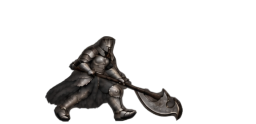
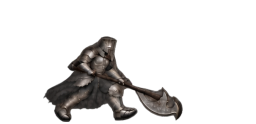
fix: remove extra outlines from Gundyr walking sprites

diff --git a/tests/test_walk_animation.py b/tests/test_walk_animation.py
@@ -103,7 +103,7 @@ class DrawnWalkTests(unittest.TestCase):
             self.assertGreater(height, idle_height * 0.75)
             self.assertLess(height, idle_height * 0.90)
 
-    def test_generated_metal_palette_matches_idle_without_bright_silver_pop(self):
+    def test_generated_metal_palette_matches_idle_and_attacks_without_bright_silver_pop(self):
         def palette(frames):
             colors = [frame.get_at((x, y)) for frame in frames
                       for y in range(frame.get_height()) for x in range(frame.get_width())
@@ -115,16 +115,47 @@ class DrawnWalkTests(unittest.TestCase):
             warmth = median(color.r - color.b for color in colors)
             return levels, warmth
 
-        idle = main.SpriteArt._strips("gundyr", ("idle",), 1.0)["idle"]
-        reference, reference_warmth = palette(idle)
+        existing = main.SpriteArt._strips("gundyr", ("idle", "sweep_a", "sweep_b"), 1.0)
+        references = [palette(frames) for frames in existing.values()]
         walk, walk_warmth = palette(self.frames)
-        # Allow different visible cloth/metal coverage and painted texture,
-        # but reject the bright cream/silver highlights of the old walk sheet.
-        for actual, expected, tolerance in zip(walk, reference, (12, 12, 25)):
-            self.assertLessEqual(abs(actual - expected), tolerance)
+        # Different existing poses expose different areas of metal and cloth.
+        # Match their observed value range, not just a single standing pose,
+        # without allowing the previous pale cream/silver metal to return.
+        for index, (actual, tolerance) in enumerate(zip(walk, (12, 12, 25))):
+            values = [levels[index] for levels, _ in references]
+            self.assertGreaterEqual(actual, min(values) - tolerance)
+            self.assertLessEqual(actual, max(values) + tolerance)
         # A few RGB levels allow natural painted reflections/cloth coverage,
         # but not the noticeably warm bronze tint of the previous drawings.
-        self.assertLessEqual(walk_warmth, reference_warmth + 5)
+        self.assertLessEqual(walk_warmth, max(warmth for _, warmth in references) + 5)
+
+    def test_walk_has_no_heavy_black_ring_around_lit_material(self):
+        def luminance(color):
+            return .2126 * color.r + .7152 * color.g + .0722 * color.b
+
+        lit_edges = ink_edges = 0
+        for frame in self.frames:
+            for y in range(3, frame.get_height() - 3):
+                for x in range(3, frame.get_width() - 3):
+                    color = frame.get_at((x, y))
+                    if color.a < 128:
+                        continue
+                    if all(frame.get_at((x + dx, y + dy)).a >= 128
+                           for dx, dy in ((-1, 0), (1, 0), (0, -1), (0, 1))):
+                        continue
+                    inside = [frame.get_at((x + dx, y + dy))
+                              for dx, dy in ((-2, 0), (2, 0), (0, -2), (0, 2))]
+                    brightest = max((luminance(pixel) for pixel in inside if pixel.a > 200),
+                                    default=0)
+                    if brightest < 70:
+                        continue  # Dark cloth/shadow is not an unwanted ink stroke.
+                    lit_edges += 1
+                    value = luminance(color)
+                    ink_edges += value < 36 and value < brightest * .5
+        # The outlined source had ~19% dark rings beside lit material; the
+        # repainted source has <1%. Leave room for small natural contact shadows.
+        self.assertGreater(lit_edges, 500)
+        self.assertLess(ink_edges / lit_edges, .06)
 
     def test_corrected_source_has_wide_vertical_gutters_between_rows(self):
         bounds = exporter.source_rects(self.source)

diff --git a/prepare_drawn_walk.py b/prepare_drawn_walk.py
@@ -17,7 +17,7 @@ import pygame
 
 
 ROOT = Path(__file__).parent
-SOURCE = ROOT / "assets" / "source_v6" / "gundyr_walk_consistent.png"
+SOURCE = ROOT / "assets" / "source_v6" / "gundyr_walk_painted.png"
 OUTPUT = ROOT / "assets" / "animations_v6" / "gundyr_walk"
 FRAME_COUNT = 16
 CELL_SIZE = (256, 124)
@@ -28,12 +28,12 @@ MIN_SPRITE_PIXELS = 500
 # Artist registration points, in the corrected source's coordinates.
 # These identify the pelvis, not the changing blade extent or head tilt.
 PELVIS_X = (
-    212, 629, 1044, 1458,
-    214, 625, 1056, 1463,
-    218, 627, 1046, 1463,
-    218, 637, 1053, 1471,
+    213, 628, 1047, 1463,
+    214, 622, 1056, 1467,
+    216, 627, 1048, 1469,
+    218, 635, 1055, 1474,
 )
-SOURCE_SIZE = (1671, 941)
+SOURCE_SIZE = (1670, 942)
 # AI sheets can draw later rows at a smaller pixel scale. Correct each row as
 # a WHOLE, identically on both axes and on all four poses in it; do not stretch
 # a limb or scale individual poses to equal heights. Their drawn bob remains.
@@ -42,7 +42,7 @@ SOURCE_SIZE = (1671, 941)
 # the idle while the inclined torso and flexed knees keep their shorter pose.
 # This remains a single scale per ROW, not a per-frame height equalizer.
 WALK_POSE_HEIGHT = 86
-ROW_SCALES = tuple(WALK_POSE_HEIGHT / height for height in (172.5, 175, 176, 168.5))
+ROW_SCALES = tuple(WALK_POSE_HEIGHT / height for height in (179, 180, 180, 173))
 
 
 def source_drawings(sheet: pygame.Surface):

diff --git a/assets/source_v6/gundyr_walk_painted.md b/assets/source_v6/gundyr_walk_painted.md
@@ -1,0 +1,41 @@
+# Gundyr — acabamento da caminhada sem delineado extra
+
+Fonte selecionada: `gundyr_walk_painted.png` (**1670×942**, RGBA), gerada com **image_gen integrada**; saída `exec-59df677d-d6c4-4fd2-9ec1-a843eb469aba.png`. Não foi usado CLI nem filtro de contorno/cor em execução. A versão anterior `gundyr_walk_consistent.png` e os sprites de idle/ataque foram preservados.
+
+O alvo foi somente a caminhada: reduzir o traço preto uniforme nas bordas e entre placas, substituindo-o por bordas pintadas, textura e sombras de material mais próximas do idle e dos ataques. Referências: `../source_v5/boss_idle.png` e `../source_v5/boss_sweep_a.png`. Um segundo passe conteve o brilho que a primeira edição introduziu, usando a versão anterior apenas como referência de valores de cor, sem restaurar seu contorno.
+
+Mantidos os 16 desenhos completos, a sequência das passadas, botas suspensas, inclinação/contrapeso do torso, direção da alabarda e cadência-base de 1,6 s. O exportador `../../prepare_drawn_walk.py` continua extraindo cada silhueta completa e aplicando apenas escala uniforme por linha e registro de pelve/chão: não recorta/move membros nem gera quadros por interpolação. A altura de referência continua em 86 px; os pontos de registro e a dimensão real da fonte foram recalibrados para a nova edição. Células finais de 256×124, apoio da sola em y=122.
+
+PNGs em uso: `../animations_v6/gundyr_walk/00.png` a `15.png`. O jogo, os golpes, hitboxes, idle e velocidade de deslocamento não foram modificados. Os testes de arte comparam a paleta com idle/varreduras e detectam bordas muito escuras ao lado de material iluminado: a versão anterior tinha aproximadamente 19% dessas bordas com aspecto de traço preto, contra menos de 1% na versão repintada. Essa verificação não elimina tecido escuro nem sombras naturais; a comparação visual foi feita no tamanho de jogo e com ampliação.
+
+## Edição do acabamento
+
+```text
+Use case: style-transfer (precise existing-sprite edit).
+Asset type: production sixteen-frame Gundyr walk atlas, real transparent PNG.
+Image1 is the EDIT TARGET: the sixteen approved chronological walking poses (four columns x four rows).
+Image2 is the STYLE REFERENCE: the game's existing Gundyr idle sprites.
+Image3 is the STYLE REFERENCE: the game's existing Gundyr attack sprites.
+Edit ONLY Image1. Do NOT change or output Image2/Image3, and do not copy their poses.
+
+The walking sprites currently have a thick dark BLACK INK OUTLINE around the entire silhouette and strong black comic-style delineation between every armor plate. The idle and attacks do NOT have that graphic outline; they are weathered, softly painted/textured dark-grey iron. Remove this extra inked/outlined look from ALL16 WALK FRAMES so there is no art-style switch when the boss starts walking.
+
+Repaint the walk's external black stroke and heavy internal ink lines as naturally shaded adjoining material: softer painterly edges, subtle contact shadows only, consistent grey plate texture/engraving and distressed grain as in the reference idle/attack. KEEP armor seams and real shadow recesses, but eliminate the uniform thick black line traced around shoulders, helmet, chest, boots, cape hems and halberd blade. No black sticker border, no outline ring, no light/white halo. Surface treatment must match Image2/Image3's restrained textured hand-painted iron, not smooth glossy comic armor. Natural material shading and fine texture, no harsh graphic contour. Keep muted grey iron color and restrained highlights matching the references; do not brighten or tint bronze.
+
+ABSOLUTE invariants: preserve all SIXTEEN unique walking drawings' exact silhouettes, body size/proportions, pose sequence, leaned/counterbalancing torso, knee bends, lifted swing feet and support soles, single complete crescent halberd, two-handed grip, facing RIGHT and same three-quarter side camera. Do not replace with idle poses, alter motion, add a weapon or shorten boots/blade. Keep the exact source layout and locations,1671x941 wide landscape,4columns x4rows, with the current BIG empty transparent horizontal/vertical gutters. All poses stay separate; every complete tip and sole inside its cell. Do NOT enlarge or shrink characters or move limbs. Only repaint the line/edge style and weathered texture to match the existing idle and attack artwork. Actual alpha transparency, no ground/shadows/text/grid/labels/checker/backdrop. Return ONLY the usable corrected sixteen-frame walk sheet.
+```
+
+## Contenção de brilho sem restaurar o contorno
+
+```text
+Use case: style-transfer. Final COLOR/FINISH ONLY pass.
+Image1 is the EDIT TARGET: sixteen walking sprites with the improved soft painted edges.
+Image2 is a COLOR VALUES ONLY reference: the previous walk's darker metal palette. Do NOT copy its black ink contour back into Image1.
+Image3 is the game's IDLE STYLE reference: subdued grainy weathered grey iron, painted shading without a traced ink outline.
+
+Keep the newly softened painterly edges of Image1, but its metal is now too bright. Lower its lit grey metal values and highlights by about25% to match Image2 and Image3. Weathered dull medium-dark iron, not shiny pale silver. Midtone lit plate should be near RGB(90,86,84), strongest raised grey highlights near RGB(140,136,134), shaded iron near(45,43,42). Keep the dark cape/shadows unchanged. Add the fine distressed/grainy painted texture of Image3, not smooth plastic cel-shading. A quiet textured grey color on the shoulder/chest/boots/knees/halberd, NOT white edge stripes.
+
+IMPORTANT: DO NOT restore a uniform dark BLACK stroke around the silhouette or between armor plates. The current softened edge treatment must remain. Armor seams should be subtle painted material shadows, not heavy line art. No bright rim light, no white/black sticker halo, no traced cartoon outline. Corrected brightness and the idle's weathered texture ONLY.
+
+Preserve Image1's EXACT16 approved walk poses and chronological order, leaning torso, knee bends, lifted swing feet, sole locations, complete single crescent halberd, two-handed grip, RIGHT facing and anatomy size/proportions. Keep EXACT current wide landscape atlas1670x942,4columns x4rows, drawing locations and LARGE transparent gutters. Do not move limbs, resize drawings, fill gutters, replace poses with idle or change animation. Actual transparent alpha. No floor/shadow/text/labels/grid/background/checkers. Return ONLY the final usable sixteen-frame walk atlas, same geometry and soft edges with subdued textured grey iron matching idle.
+```

diff --git a/README.md b/README.md
@@ -34,14 +34,14 @@ Durante o desenvolvimento, as hitboxes começam visíveis: azul para o jogador, 
 
 ## Animações
 
-As animações do cavaleiro e os golpes do chefe usam uma fonte independente por movimento em `assets/source_v5/`, organizada em uma grade invisível 5×2. O exportador transforma cada fonte em células isoladas em `assets/animations_v5/`, com margem de segurança, botas completas e linha de chão normalizada. A nova caminhada do Gundyr usa desenhos próprios em `assets/source_v6/gundyr_walk_consistent.png`, exportados como **um PNG por quadro** em `assets/animations_v6/gundyr_walk/`. O jogo prioriza esses arquivos individuais, que não podem capturar pedaços de um quadro vizinho.
+As animações do cavaleiro e os golpes do chefe usam uma fonte independente por movimento em `assets/source_v5/`, organizada em uma grade invisível 5×2. O exportador transforma cada fonte em células isoladas em `assets/animations_v5/`, com margem de segurança, botas completas e linha de chão normalizada. A nova caminhada do Gundyr usa desenhos próprios em `assets/source_v6/gundyr_walk_painted.png`, exportados como **um PNG por quadro** em `assets/animations_v6/gundyr_walk/`. O jogo prioriza esses arquivos individuais, que não podem capturar pedaços de um quadro vizinho.
 
 - Cavaleiro: idle, corrida, rolamento, defesa, beber Estus, morte com pose final deitada, dois ataques leves e dois ataques fortes.
 - Iudex Gundyr: identidade alta e assimétrica inspirada na referência, alabarda consistente, idle separado, caminhada com 16 poses novas desenhadas (100 ms por quadro, ciclo-base de 1,6 s), duas varreduras, duas estocadas, golpe vertical e movimentos especiais. A caminhada preserva a sequência das passadas ao parar e retomar o movimento.
 
 Na caminhada, cada quadro é um desenho completo novo criado com geração de imagem, preservando o Gundyr, a armadura e a alabarda. O GIF e o diagrama de caminhada fornecidos pelo usuário foram usados como referência de movimento, sem trocar o personagem. O exportador não monta membros, não deforma poses e não cria quadros por optical flow ou crossfade: faz somente extração da silhueta completa, escala uniforme nos dois eixos e registro de origem/chão. A escala é calibrada por linha para compensar a diferença de tamanho na fonte gerada, sem alterar a anatomia nem igualar a altura de cada pose. Os 16 PNGs são reproduzidos diretamente. O arquivo `assets/source_v6/gundyr_walk.md` guarda os prompts e a origem da fonte selecionada. O relógio da animação continua acompanhando a distância percorrida e inverte ao recuar. Os scripts antigos `rig_gundyr_walk.py` e `interpolate_walk.py` ficam como histórico, mas não são chamados pelo jogo nem pelo comando de reexportação atual.
 
-A versão atual recebeu uma correção generativa de cor para acompanhar o cinza-ferro e os reflexos discretos do idle. As poses inclinadas usam altura de referência de 86 px, em vez de serem ampliadas até a altura ereta de 104 px: elmo, placas e arma ficam proporcionais, sem mudar o ritmo das passadas. As fontes anteriores foram preservadas. `assets/source_v6/gundyr_walk_consistent.md` registra a fonte final e os prompts de edição. O exportador não corrige cores em execução.
+A caminhada recebeu correções generativas de cor e acabamento para acompanhar o cinza-ferro e os reflexos discretos do idle e dos ataques. O delineado preto extra foi substituído por bordas pintadas e sombras de material mais suaves, sem aplicar filtros em execução. As poses inclinadas usam altura de referência de 86 px, em vez de serem ampliadas até a altura ereta de 104 px: elmo, placas e arma ficam proporcionais, sem mudar o ritmo das passadas. As fontes anteriores foram preservadas. `assets/source_v6/gundyr_walk_painted.md` registra a fonte em uso e os prompts de acabamento; `assets/source_v6/gundyr_walk_consistent.md` guarda a correção anterior de escala/paleta. Idle e ataques não foram redesenhados.
 
 Para reexportar somente os novos desenhos (precisa apenas de Pygame):
 
